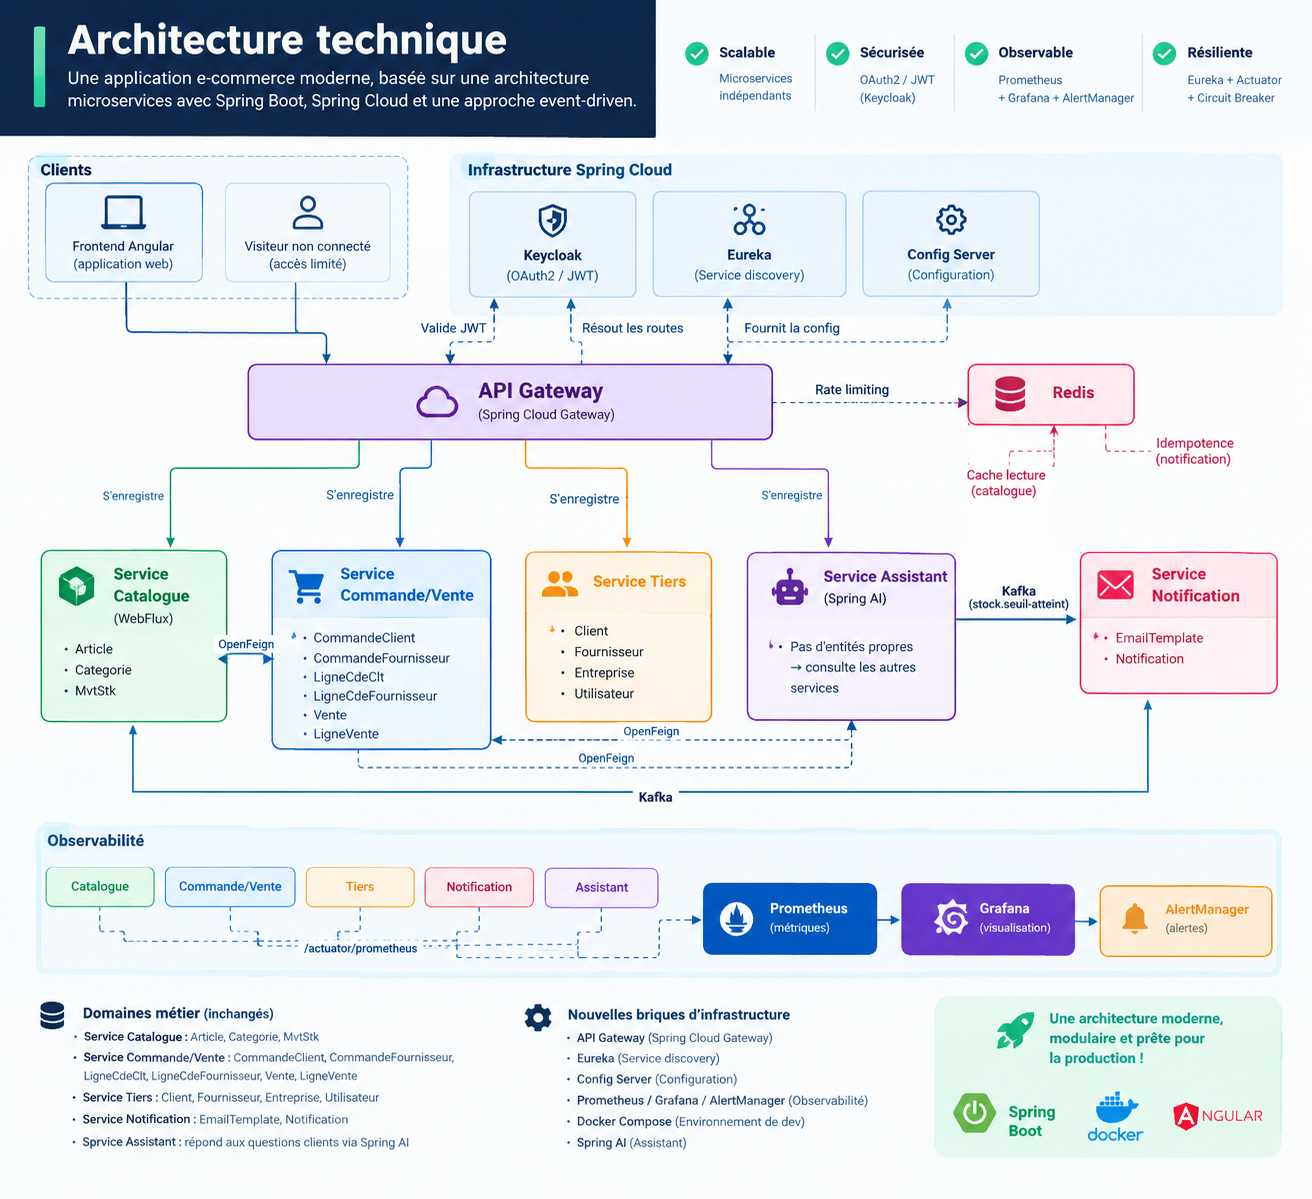
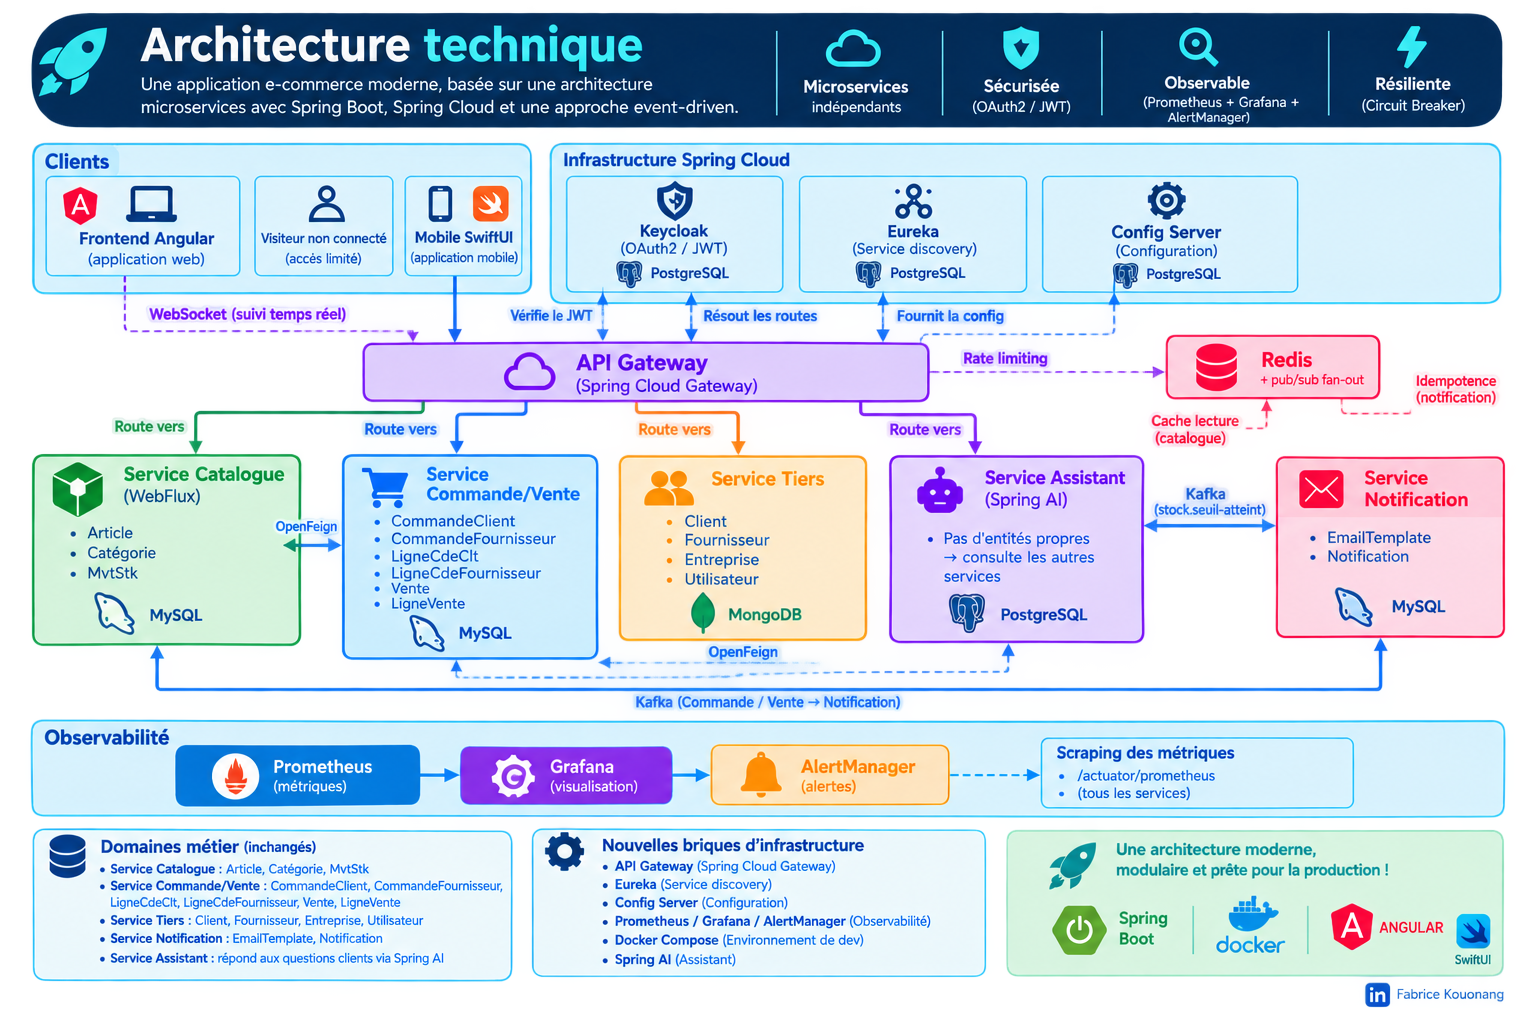
architecture updated

diff --git a/diagrams/ARCHITECTURE.md b/diagrams/ARCHITECTURE.md
@@ -8,10 +8,12 @@ Ce document couvre les décisions techniques qui ne se modélisent pas dans un M
 flowchart TB
     subgraph Clients
         Angular[Frontend Angular]
+        SwiftUI["App iOS<br/>(SwiftUI)"]
         Guest[Visiteur non connecte]
     end
 
     Angular --> GW
+    SwiftUI --> GW
     Guest --> GW
 
     GW["API Gateway<br/>(Spring Cloud Gateway)"]
@@ -49,6 +51,10 @@ flowchart TB
 
     CDE -- Kafka --> NOTIF["Service Notification"]
     CAT -- Kafka (stock.seuil-atteint) --> NOTIF
+    Angular -. WebSocket wss:// .-> GW
+    SwiftUI -. WebSocket wss:// .-> GW
+    GW -. route WebSocket .-> NOTIF
+    NOTIF -. pub/sub fan-out .-> REDIS
 
     subgraph Observabilite
         PROM[Prometheus]
@@ -119,6 +125,10 @@ Ceci ne change pas les règles d'autorisation déjà définies (catalogue public
 - **Keycloak** reste la source de vérité pour l'identité : un realm dédié, deux populations — `Utilisateur` (rôle `ADMIN`/`GESTIONNAIRE`/`VENDEUR`) et `Client` (rôle `CLIENT`).
 - Chaque `Utilisateur`/`Client` porte un `keycloakId` (voir MCD) ; aucun mot de passe en clair côté applicatif.
 - **Spring Security (Resource Server / OAuth2)** valide le JWT sur chaque service, en complément de la vérification au niveau du Gateway.
+- **Deux clients, deux flux OAuth2 différents côté Keycloak** — même realm, même backend, mais l'implémentation d'authentification diffère selon la plateforme :
+  - **Angular (SPA)** : Authorization Code + PKCE via une librairie type `angular-oauth2-oidc` ou `keycloak-angular`, redirection navigateur classique.
+  - **App iOS (SwiftUI)** : Authorization Code + PKCE également (recommandé pour tout client natif/mobile — jamais de flux "password" ou "implicit", dépréciés et moins sûrs), via `ASWebAuthenticationSession` pour ouvrir l'écran de connexion Keycloak et récupérer le token, puis stockage du refresh token dans le **Keychain** (jamais `UserDefaults`).
+  - Dans les deux cas, le token obtenu est le même type de JWT, vérifié de la même façon côté Gateway/services — la différence est uniquement dans la façon dont chaque client l'obtient.
 
 ### Règles d'accès
 
@@ -128,6 +138,7 @@ Ceci ne change pas les règles d'autorisation déjà définies (catalogue public
 | `POST /api/commandes-client` (passer une commande) | `Client` connecté (rôle `CLIENT`) |
 | `GET /api/commandes-client/{id}` (suivi de commande) | `Client` propriétaire de la commande, ou `Utilisateur` de l'entreprise |
 | `POST /api/assistant/chat` (assistant IA) | `Client` connecté si la question porte sur une commande précise ; accessible sans connexion pour des questions générales (FAQ, disponibilité produit) |
+| `wss://.../ws/commandes/{commandeId}` (suivi temps réel) | `Client` connecté et propriétaire de `commandeId` — même règle que le suivi de commande REST |
 | Tout endpoint `/api/admin/**`, `/api/ventes/**`, `/api/commandes-fournisseur/**`, `/api/dashboard/**` | `Utilisateur` connecté, filtré par `RoleUtilisateur` via `@PreAuthorize` |
 
 ## Trafic client à fort volume (WebFlux)
@@ -146,6 +157,7 @@ Redis a sa place ici, mais pour des usages précis — pas comme cache général
    - **Point non négociable : ne jamais cacher `quantiteStock` avec un TTL long.** Un stock "stale" en cache peut afficher "en stock" alors que ce n'est plus vrai → survente. Deux options : exclure `quantiteStock` du cache (toujours lu en direct depuis la base), ou TTL très court (1-2s) invalidé immédiatement dès qu'un `MvtStk` est enregistré (le service Catalogue peut invalider la clé au moment où il publie `stock.seuil-atteint`, ou simplement à chaque écriture de `MvtStk`).
 2. **Rate limiting au Gateway** : c'est la mise en œuvre concrète de ce qui était déjà mentionné dans la section API Gateway. Le `RequestRateLimiter` de Spring Cloud Gateway s'appuie nativement sur Redis (`spring-boot-starter-data-redis-reactive`) pour stocker les compteurs de requêtes par client/IP.
 3. **Idempotence des consommateurs Kafka** (Service Notification) : Kafka garantit une livraison *at-least-once* — un message peut être traité deux fois. Stocker dans Redis les identifiants de messages déjà traités (TTL raisonnable, ex. 24h) évite d'envoyer deux fois le même email de confirmation.
+4. **Backplane pub/sub pour le suivi de commande en temps réel** (voir section WebSocket ci-dessous) : quand le Service Notification tourne en plusieurs instances, l'instance qui consomme l'événement Kafka n'est pas forcément celle qui détient la connexion WebSocket du client concerné. Publier l'événement sur un canal Redis Pub/Sub permet à **toutes** les instances de le recevoir, et seule celle qui détient la bonne connexion pousse réellement la mise à jour.
 
 Ce qui ne justifie **pas** Redis pour l'instant : le cache de session (JWT est stateless, rien à stocker côté serveur), et l'agrégation du dashboard métier (voir plus bas — commencer par des requêtes à la volée, Redis seulement si un vrai problème de performance apparaît).
 
@@ -165,6 +177,19 @@ Ce qui ne justifie **pas** Redis pour l'instant : le cache de session (JWT est s
 | `stock.seuil-atteint` | Service Catalogue | `Article.quantiteStock <= Article.seuilAlerte` après un `MvtStk` de type `SORTIE` | `Notification` type `ALERTE_STOCK` vers les `Utilisateur` de l'entreprise (rôle `GESTIONNAIRE`/`ADMIN`) |
 
 Le service Notification résout le bon `EmailTemplate` via `TypeNotification`, génère le contenu, envoie l'email, et écrit une ligne `Notification` avec le `statut` correspondant (`ENVOYEE` ou `ECHEC`, avec possibilité de retry sur `ECHEC`).
+
+## Suivi de commande en temps réel (WebSocket)
+
+**Pas de nouveau service** : le Service Notification consomme déjà `commande-client.etat-change` sur Kafka pour envoyer l'email de suivi — on lui ajoute simplement un second canal de sortie plutôt que de dupliquer la logique métier ailleurs. C'est pour ça que `CanalNotification` gagne une 3ᵉ valeur : `EMAIL`, `SMS`, **`WEBSOCKET`** (voir MCD).
+
+**Flux** :
+1. Le `Client` connecté ouvre une connexion `wss://.../ws/commandes/{commandeId}` via le **Gateway** (Spring Cloud Gateway proxy aussi bien le HTTP que le WebSocket, donc le frontend garde un point d'entrée unique) — le Gateway route vers `lb://notification-service` comme pour n'importe quelle route HTTP.
+2. À chaque événement `commande-client.etat-change` consommé, le Service Notification génère (comme avant) la `Notification` de type `SUIVI_COMMANDE`, mais au lieu d'envoyer systématiquement un email, il vérifie s'il existe une connexion WebSocket active pour ce `commandeId` et pousse la mise à jour dessus si oui.
+3. **Passage à l'échelle** : si le Service Notification tourne en plusieurs instances, l'instance qui consomme l'événement Kafka (le partitionnement Kafka ne garantit pas que ce soit celle qui détient la connexion WebSocket du client) publie sur un canal **Redis Pub/Sub** ; toutes les instances y sont abonnées et seule celle qui détient la bonne connexion relaie réellement au client.
+
+**Sécurité** : même règle que le suivi REST — un `Client` ne peut ouvrir un socket que pour une commande dont il est propriétaire (vérifié à l'établissement de la connexion, JWT passé en query param ou sous-protocole WebSocket puisque le header `Authorization` standard n'est pas disponible nativement en WebSocket).
+
+**Alternative à considérer** : ce besoin est unidirectionnel (le serveur pousse un statut, le client ne renvoie rien sur ce canal) — les **Server-Sent Events (SSE)** rempliraient le même rôle avec moins de complexité (pas de handshake dédié, reconnexion automatique native côté navigateur via `EventSource`, pas de souci de proxy WebSocket). WebSocket reste justifié si l'app a par ailleurs un besoin bidirectionnel — typiquement le **chat de l'Assistant IA** (voir section Spring AI) — auquel cas partager la même stack technique pour les deux usages est cohérent. Trancher selon si l'Assistant conversationnel est réellement construit ou reste en HTTP requête/réponse classique.
 
 ## Observabilité (Prometheus / Grafana / AlertManager)
 
@@ -220,3 +245,4 @@ Points d'attention :
 - R2DBC vs JPA+boundedElastic pour la partie WebFlux du service Catalogue.
 - Fournisseur du modèle pour Spring AI (OpenAI, Anthropic via Spring AI, modèle auto-hébergé) — a un impact direct sur le coût et la latence de l'assistant.
 - Faut-il un Config Server en HA, ou une seule instance suffit-elle vu la taille du projet ?
+- **Notifications push natives (APNs)** pour l'app iOS : le WebSocket ne fonctionne que si l'app est ouverte au premier plan/arrière-plan actif — pour prévenir un client d'un changement de statut alors que l'app est fermée, il faudra à terme ajouter `APNS` comme 4ᵉ valeur de `CanalNotification`, en plus de `EMAIL`/`SMS`/`WEBSOCKET`. Pas nécessaire au démarrage, mais à garder en tête dès que l'app iOS existe réellement.
